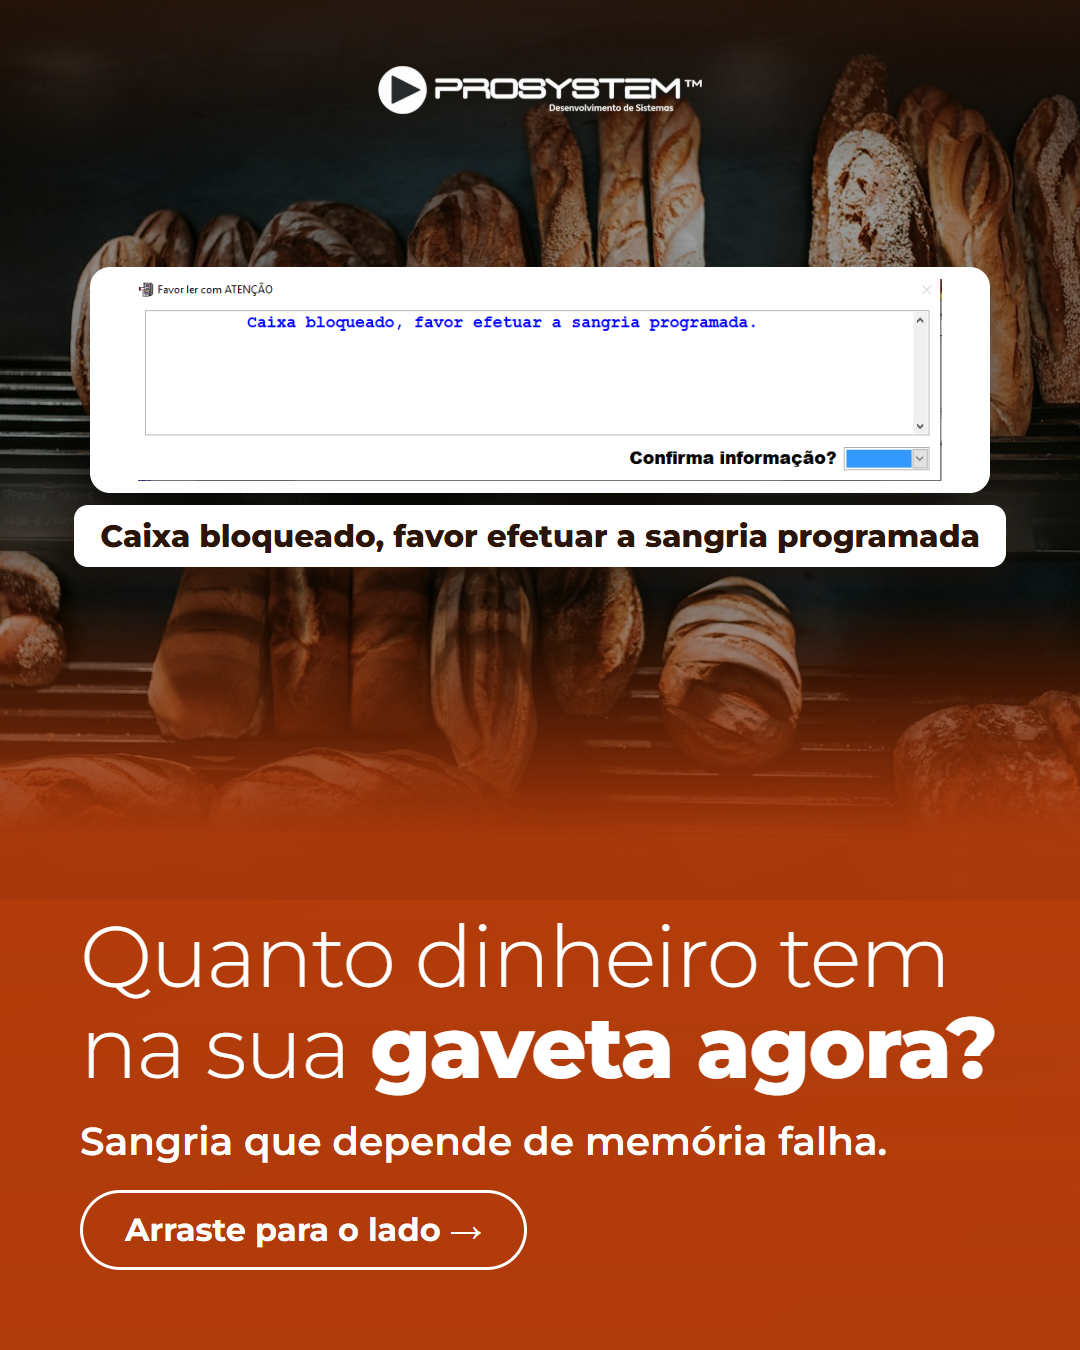
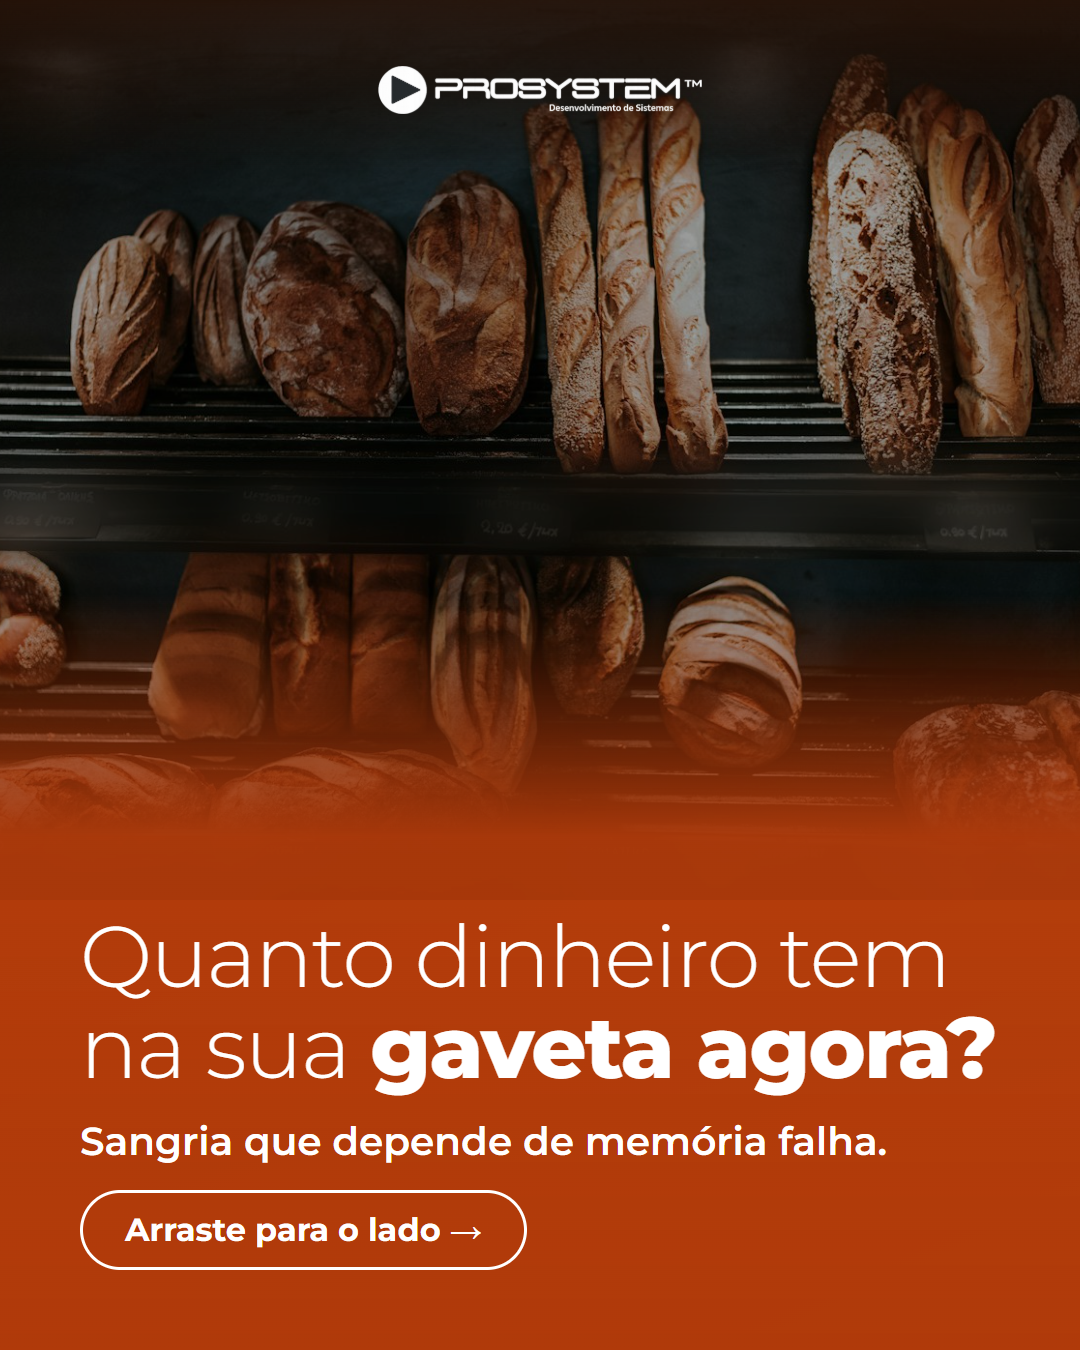
Carrossel da sangria (padaria): aviso só no slide 2, sem tela na capa e no slide 5

Changed region(s): [[0.0611, 0.1867, 0.9472, 0.4356]]

diff --git a/outputs/criativos/nov-dez/pecas-dados.js b/outputs/criativos/nov-dez/pecas-dados.js
@@ -141,18 +141,18 @@ ${CTA}`,
   conferir: ['Data: a Fenacon conta 16/12, parte da imprensa fala em 15/12.', 'Produto: com relatório de vendas por hora, esta peça ganha tela.', '"Ponto mais apertado" é inferência nossa, sem posição de Abrafarma ou Febrafar.'] },
 
 { data: 'Sex 04/12', seg: 'Padaria', id: 'carrossel-padaria-sangria-v2', tipo: 'v2', tema: 'lar', formato: 'Carrossel V2',
-  capa: { foto: 'paes-prateleira-sem-etiqueta', tela: 'sangria-bloqueio', titulo: 'Quanto dinheiro tem na sua <b>gaveta agora?</b>', apoio: 'Sangria que depende de memória falha.' },
+  capa: { foto: 'paes-prateleira-sem-etiqueta', titulo: 'Quanto dinheiro tem na sua <b>gaveta agora?</b>', apoio: 'Sangria que depende de memória falha.' },
   itens: [
     { foto: 'paes-prateleira-sem-etiqueta', tela: 'sangria-aviso', titulo: 'Chegou no valor, o caixa <b>avisa.</b>', apoio: 'Exemplo: a partir de R$ 600 em dinheiro. A venda continua.' },
     { foto: 'paes-grade', tela: 'sangria-bloqueio', titulo: 'Passou do limite, o caixa <b>trava.</b>', apoio: 'Exemplo: em R$ 900, só volta a vender depois da sangria.' },
     { foto: 'calculadora', tela: 'sangria-registro', titulo: 'Toda retirada fica <b>registrada.</b>', apoio: 'Valor e motivo, prontos para conferir no fechamento.' },
   ],
-  sol: { foto: 'carrinho-paes', tela: 'sangria-aviso', titulo: 'Sangria com regra, sem depender da memória', apoio: 'Menos dinheiro exposto na gaveta e um fechamento mais fácil de conferir.' },
+  sol: { foto: 'carrinho-paes', titulo: 'Sangria com regra, sem depender da memória', apoio: 'Menos dinheiro exposto na gaveta e um fechamento mais fácil de conferir.' },
   fim: { foto: 'paes-prateleira-sem-etiqueta', tela: 'sangria-registro', titulo: 'Quer esse controle no caixa da <b>sua padaria?</b>' },
   kw: 'sangria de caixa',
   cap: `Sangria de caixa na padaria: com café da manhã cheio e fila no caixa, ela fica para depois até alguém lembrar. E dezembro é o mês de mais movimento antes de 2027.\n\nNo Prosystem, você define dois valores: em um, o caixa avisa; no outro, ele só volta a vender depois da sangria. Cada retirada fica registrada para conferir no fechamento.\n\nQuer esse controle na sua padaria? ${CTA}`,
   tags: '#sangriadecaixa #padaria #controledecaixa #sistemaparapadaria',
-  alts: ['Aviso de caixa bloqueado sobre pães em uma prateleira, com o título: quanto dinheiro tem na sua gaveta agora?', 'Aviso do Prosystem pedindo a sangria programada e o texto: chegou no valor, o caixa avisa.', 'Aviso de caixa bloqueado e o texto: passou do limite, o caixa trava.', 'Tela de registro de sangria do Prosystem e o texto: toda retirada fica registrada.', 'Aviso de sangria sobre um carrinho de pães e o texto: sangria com regra, sem depender da memória.', 'Tela de registro de sangria e o convite para ter esse controle na padaria.'],
+  alts: ['Pães em uma prateleira, com o título: quanto dinheiro tem na sua gaveta agora?', 'Aviso do Prosystem pedindo a sangria programada e o texto: chegou no valor, o caixa avisa.', 'Aviso de caixa bloqueado e o texto: passou do limite, o caixa trava.', 'Tela de registro de sangria do Prosystem e o texto: toda retirada fica registrada.', 'Carrinho de pães e o texto: sangria com regra, sem depender da memória.', 'Tela de registro de sangria e o convite para ter esse controle na padaria.'],
   conferir: ['Produto: a função vale sem ajuste na padaria?', 'A tela de registro tem "centro de custo" e um lançamento de gasolina: conferir no mockup.'] },
 
 { data: 'Seg 07/12', seg: 'Farmácia', id: 'carrossel-farmacia-popular-v2', tipo: 'v2', tema: 'azul', formato: 'Carrossel V2',

diff --git a/docs/contexto/relatorios/2026-11-03-sangria-aviso-so-slide-2.md b/docs/contexto/relatorios/2026-11-03-sangria-aviso-so-slide-2.md
@@ -1,0 +1,21 @@
+# 03/11/2026 — Carrossel da sangria (padaria, 04/12): aviso só no slide 2
+
+## Pedido
+"Coloque a imagem do aviso da sangria apenas no slide 2, não repita nos demais."
+
+## Feito
+- `outputs/criativos/nov-dez/pecas-dados.js` (peça `carrossel-padaria-sangria-v2`): tirada a tela da capa (era `sangria-bloqueio`) e do slide 5 (era `sangria-aviso`). Os dois ficam só com a foto e o texto.
+- Textos alternativos dos slides 1 e 5 atualizados para não citar o aviso.
+- Regeradas as imagens com `node gerar.js carrossel-padaria-sangria-v2` (`outputs/criativos/nov-dez/pecas/carrossel-padaria-sangria-v2-1.png` a `-6.png`).
+
+## Verificado
+- O gerador rodou sem estouro de texto. Conferi visualmente os slides 1 e 5 já sem a janela de aviso.
+
+## Decisões e porquês
+- O slide 3 continua com a tela "Caixa bloqueado", porque ela ilustra o texto "o caixa trava" e é outra tela, não o aviso. Os slides 4 e 6 continuam com a tela de registro.
+
+## Pendente
+- A Jessica decide se o slide 3 também deve ficar sem a tela de bloqueio.
+
+## Próxima sessão
+- Se for pedido, tirar `tela: 'sangria-bloqueio'` do item 2 em `pecas-dados.js` e rodar o gerador de novo com o id da peça.
